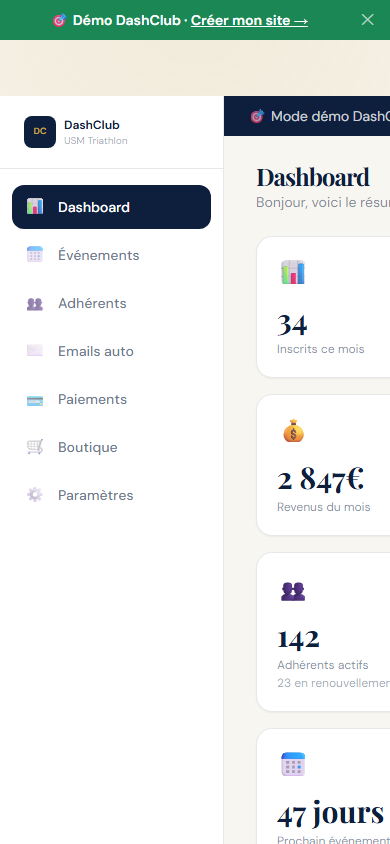
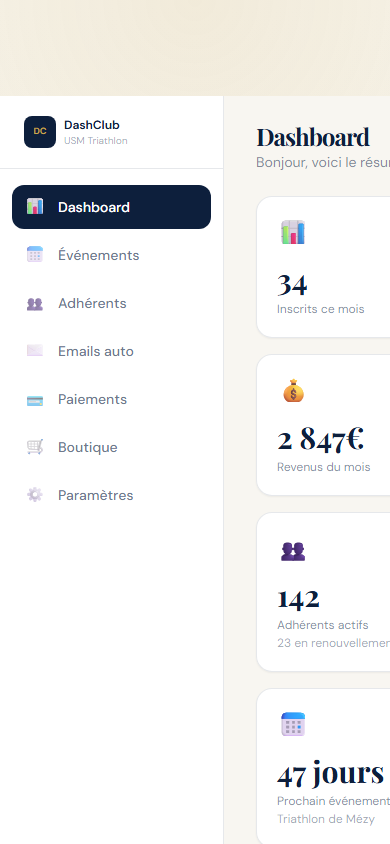
fix: masquage bandeaux démo dans screenshots, pills repositionnées, texte Yerres Triathlon
- Badge "Site propulsé par DashClub" masqué via data-cta
- Bandeau vert DemoBanner et barre Mode démo masqués dans back-office
- Pill "Site public" déplacée en haut-gauche, "Back-office" en bas-droite
- Texte USM Triathlon → Yerres Triathlon dans la section démo

Changed region(s): [[0.5538, 0.0924, 1.0, 1.0], [0.0, 0.0, 1.0, 0.0616], [0.8615, 0.3389, 0.9231, 0.3697]]

diff --git a/scripts/capture-screenshots.ts b/scripts/capture-screenshots.ts
@@ -31,31 +31,30 @@ const VIEWPORTS = {
 
 // ── Sensitive-data masking ────────────────────────────────────────────────────
 
-const MASK_SCRIPT = /* js */ `
+// Applied to demo.dashclub.app (club-starter public site)
+const SITE_MASK_SCRIPT = /* js */ `
   (() => {
-    const hide = (el) => { if (el) el.style.visibility = 'hidden'; };
-    const blur = (el) => { if (el) { el.style.filter = 'blur(6px)'; el.style.userSelect = 'none'; } };
+    // "Site propulsé par DashClub" badge — le data-cta est sur la div racine du badge
+    const badge = document.querySelector('div[data-cta="demo-badge"]');
+    if (badge) badge.style.display = 'none';
+  })();
+`;
 
-    // Top-bar username label (span[class*="max-w-[120px]"])
-    document.querySelectorAll('span').forEach(s => {
-      if (s.className && s.className.includes && s.className.includes('max-w-[120px]')) hide(s);
+// Applied to dashclub.app/demo/admin (Portfolio back-office demo)
+const BACK_MASK_SCRIPT = /* js */ `
+  (() => {
+    // Bandeau vert DemoBanner Portfolio — ciblé par zIndex 9999 + position fixed
+    document.querySelectorAll('div').forEach(el => {
+      if (el.style.zIndex === '9999' && el.style.position === 'fixed') {
+        el.style.display = 'none';
+      }
     });
-
-    // Top-bar avatar initials (small rounded-full span inside a button)
-    document.querySelectorAll('button span').forEach(s => {
-      if (
-        s.className && s.className.includes &&
-        s.className.includes('rounded-full') &&
-        s.className.includes('font-bold') &&
-        (s.textContent ?? '').trim().length <= 2
-      ) hide(s);
-    });
-
-    // Dashboard greeting (h1/h2 containing user name or 👋)
-    document.querySelectorAll('h1, h2').forEach(el => {
-      const t = el.textContent ?? '';
-      if (t.includes('👋') || t.includes('Laurent') || t.includes('Dupont') || t.includes('Admin')) {
-        blur(el);
+    // Bandeau sombre "Mode démo DashClub" dans le layout admin
+    // Longueur < 150 pour éviter de masquer les divs parents qui contiennent tout le contenu
+    document.querySelectorAll('div').forEach(el => {
+      const text = (el.textContent ?? '').trim();
+      if (text.startsWith('🎯 Mode démo') && text.length < 150 && !el.querySelector('main, aside, nav, table')) {
+        el.style.display = 'none';
       }
     });
   })();
@@ -86,7 +85,8 @@ async function capturePublicSite(browser: Awaited<ReturnType<typeof chromium.lau
     page.setDefaultTimeout(30_000);
 
     await page.goto(SITE_URL, { waitUntil: 'networkidle' });
-    await page.waitForTimeout(1000);
+    await page.waitForTimeout(1500);
+    await page.evaluate(SITE_MASK_SCRIPT);
 
     const buffer = await page.screenshot({ type: 'png' });
     await saveOptimized(Buffer.from(buffer), `screenshot-site-${label}.png`);
@@ -103,7 +103,7 @@ async function captureBackoffice(browser: Awaited<ReturnType<typeof chromium.lau
   desktopPage.setDefaultTimeout(30_000);
   await desktopPage.goto(BACK_URL, { waitUntil: 'networkidle' });
   await desktopPage.waitForTimeout(2500);
-  await desktopPage.evaluate(MASK_SCRIPT);
+  await desktopPage.evaluate(BACK_MASK_SCRIPT);
   const desktopBuf = await desktopPage.screenshot({ type: 'png' });
   await saveOptimized(Buffer.from(desktopBuf), 'screenshot-backoffice-desktop.png');
   await desktopCtx.close();
@@ -114,7 +114,7 @@ async function captureBackoffice(browser: Awaited<ReturnType<typeof chromium.lau
   mobilePage.setDefaultTimeout(30_000);
   await mobilePage.goto(BACK_URL, { waitUntil: 'networkidle' });
   await mobilePage.waitForTimeout(2500);
-  await mobilePage.evaluate(MASK_SCRIPT);
+  await mobilePage.evaluate(BACK_MASK_SCRIPT);
   const mobileBuf = await mobilePage.screenshot({ type: 'png' });
   await saveOptimized(Buffer.from(mobileBuf), 'screenshot-backoffice-mobile.png');
   await mobileCtx.close();

diff --git a/components/marketing/Hero.tsx b/components/marketing/Hero.tsx
@@ -130,7 +130,7 @@ export function Hero() {
               style={{ display: "block" }}
             />
           </div>
-          <div className="absolute" style={{ bottom: 12, left: 10, zIndex: 2 }}>
+          <div className="absolute" style={{ top: 10, left: 10, zIndex: 2 }}>
             <MockupPill>Site public</MockupPill>
           </div>
 
@@ -148,7 +148,7 @@ export function Hero() {
               style={{ display: "block" }}
             />
           </div>
-          <div className="absolute" style={{ top: 10, right: 10, zIndex: 4 }}>
+          <div className="absolute" style={{ bottom: 12, right: 10, zIndex: 4 }}>
             <MockupPill>Back-office</MockupPill>
           </div>
         </div>

diff --git a/app/page.tsx b/app/page.tsx
@@ -632,7 +632,7 @@ export default function Home() {
               Vous voulez voir à quoi ressemble votre futur site ?
             </p>
             <p className="mx-auto mt-3 max-w-xl text-sm leading-7 text-white/70">
-              Découvrez l&apos;exemple de l&apos;USM Triathlon — un vrai site club construit avec DashClub.
+              Découvrez l&apos;exemple du Yerres Triathlon — un vrai site club construit avec DashClub.
             </p>
             <a
               href={demoUrl}
